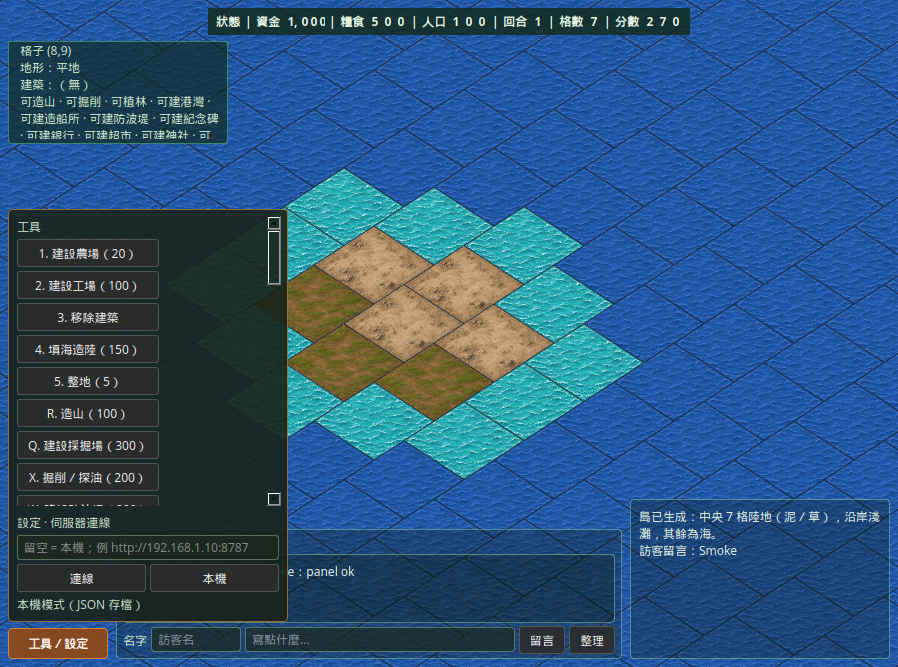
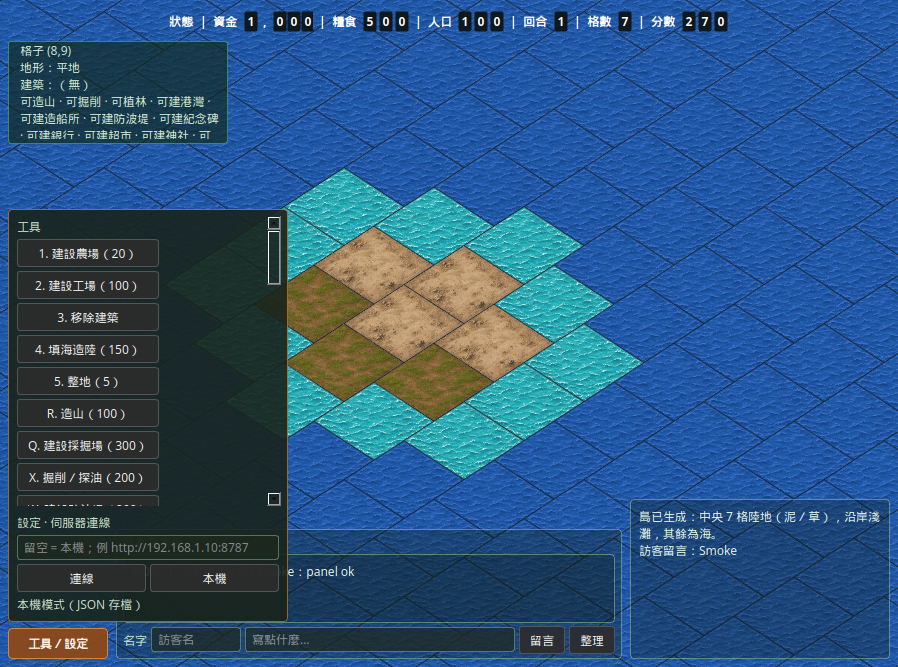
箱庭島：狀態列去綠框；數字改獨立深色格
Strip the green status background entirely (frameless over map). Each digit paints its own dark rounded cell with bold white; commas stay outside cells; turn-based open roll unchanged.

Changed region(s): [[0.1871, 0.0, 0.8107, 0.06]]

diff --git a/hakoniwa/odometer.py b/hakoniwa/odometer.py
@@ -1,9 +1,10 @@
 """Odometer-style digit roll widgets for the hakoniwa status HUD.
 
-Digits sit in compact cells (no border/frame) and scroll upward with a short
-OutBack bounce when the value changes. Comma grouping matches the
-「12,480」 vibe. Persistence helpers remember the last-seen turn snapshot so
-login/open only rolls when the turn advances.
+Each digit sits in its own small dark cell (「累計 12,527 人」 vibe); labels
+and commas stay outside cells. The status strip itself is frameless over the
+map. Digits scroll upward with a short OutBack bounce. Persistence helpers
+remember the last-seen turn snapshot so login/open only rolls when the turn
+advances.
 """
 
 from __future__ import annotations
@@ -15,18 +16,21 @@ from typing import Any, Dict, Mapping, Optional, Union
 from PySide6.QtCore import (
     QEasingCurve,
     QPropertyAnimation,
+    QRectF,
     Qt,
     Property,
 )
-from PySide6.QtGui import QColor, QFont, QFontMetrics, QPainter
+from PySide6.QtGui import QColor, QFont, QFontMetrics, QPainter, QPainterPath
 from PySide6.QtWidgets import QHBoxLayout, QLabel, QSizePolicy, QWidget
 
 PathLike = Union[str, Path]
 
-# Reuse hakoniwaHudStatus palette (dialog.HAKONIWA_HUD_STYLE).
-STATUS_FG = QColor("#e4f5e4")
-STATUS_BG = QColor(18, 42, 26, 210)
+# Labels / commas: bold white over the map. Digit cells: small dark tiles.
+STATUS_FG = QColor("#ffffff")
+DIGIT_FG = QColor("#ffffff")
+DIGIT_CELL_BG = QColor(12, 18, 16, 230)  # dark cell fill (not a bar frame)
 DIGIT_MS = 520
+DIGIT_RADIUS = 2.0
 
 
 def format_grouped(n: int) -> str:
@@ -35,7 +39,7 @@ def format_grouped(n: int) -> str:
 
 
 class DigitReel(QWidget):
-    """One digit cell: vertical reel 0–9 that scrolls upward with overshoot."""
+    """One digit in a small dark cell; reel scrolls upward with overshoot."""
 
     def __init__(self, parent: Optional[QWidget] = None):
         super().__init__(parent)
@@ -43,13 +47,15 @@ class DigitReel(QWidget):
         self._offset = 0.0  # fractional reel position (digit units)
         self._anim: Optional[QPropertyAnimation] = None
         self.setAttribute(Qt.WidgetAttribute.WA_OpaquePaintEvent, False)
+        self.setAttribute(Qt.WidgetAttribute.WA_TranslucentBackground, True)
         self.setSizePolicy(QSizePolicy.Policy.Fixed, QSizePolicy.Policy.Fixed)
         font = QFont(self.font())
         font.setBold(True)
         self.setFont(font)
         fm = QFontMetrics(self.font())
-        self._cell_w = max(fm.horizontalAdvance("0") + 4, 12)
-        self._cell_h = max(fm.height() + 2, 16)
+        # Compact cell like counter tiles — tight around the glyph.
+        self._cell_w = max(fm.horizontalAdvance("0") + 6, 14)
+        self._cell_h = max(fm.height() + 4, 18)
         self.setFixedSize(self._cell_w, self._cell_h)
 
     def get_offset(self) -> float:
@@ -103,14 +109,18 @@ class DigitReel(QWidget):
     def paintEvent(self, event) -> None:  # noqa: N802
         del event
         p = QPainter(self)
+        p.setRenderHint(QPainter.RenderHint.Antialiasing, True)
         p.setRenderHint(QPainter.RenderHint.TextAntialiasing, True)
+        h = float(self.height())
+        w = float(self.width())
+        # Dark cell tile (individual digit box — not a bar frame).
+        path = QPainterPath()
+        path.addRoundedRect(QRectF(0.5, 0.5, w - 1.0, h - 1.0), DIGIT_RADIUS, DIGIT_RADIUS)
+        p.fillPath(path, DIGIT_CELL_BG)
+        p.setClipPath(path)
         p.setFont(self.font())
-        p.setPen(STATUS_FG)
-        h = self.height()
-        w = self.width()
-        # Continuous reel: draw digits around current fractional offset.
+        p.setPen(DIGIT_FG)
         base = self._offset
-        # Normalize into a window covering ±1 digit for overshoot.
         for k in range(int(base) - 1, int(base) + 3):
             d = k % 10
             y = (k - base) * h
@@ -119,8 +129,8 @@ class DigitReel(QWidget):
             p.drawText(
                 0,
                 int(round(y)),
-                w,
-                h,
+                int(w),
+                int(h),
                 int(Qt.AlignmentFlag.AlignCenter),
                 str(d),
             )
@@ -128,15 +138,17 @@ class DigitReel(QWidget):
 
 
 class OdometerNumber(QWidget):
-    """Comma-grouped digit reels for a non-negative integer."""
+    """Comma-grouped digit reels; commas sit *outside* digit cells."""
 
     def __init__(self, parent: Optional[QWidget] = None, *, min_digits: int = 1):
         super().__init__(parent)
         self._min_digits = max(1, int(min_digits))
         self._value = 0
+        self.setAttribute(Qt.WidgetAttribute.WA_TranslucentBackground, True)
         self._layout = QHBoxLayout(self)
         self._layout.setContentsMargins(0, 0, 0, 0)
-        self._layout.setSpacing(1)
+        # Tight gap between digit cells; commas get their own spacing.
+        self._layout.setSpacing(2)
         self._reels: list[DigitReel] = []
         self._seps: list[QLabel] = []
         self.setSizePolicy(QSizePolicy.Policy.Fixed, QSizePolicy.Policy.Fixed)
@@ -174,13 +186,15 @@ class OdometerNumber(QWidget):
         # Build from grouped text so commas land between digit cells.
         for ch in text:
             if ch == ",":
+                # Comma lives outside digit cells (no dark tile).
                 sep = QLabel(",", self)
                 sep.setObjectName("hakoniwaOdoSep")
                 font = QFont(sep.font())
                 font.setBold(True)
                 sep.setFont(font)
                 sep.setStyleSheet(
-                    f"color: {STATUS_FG.name()}; background: transparent; border: none;"
+                    "color: #ffffff; background: transparent; border: none;"
+                    "padding: 0 1px; font-weight: bold;"
                 )
                 self._layout.addWidget(sep)
                 self._seps.append(sep)
@@ -265,7 +279,7 @@ def snapshot_from_state(state: Any) -> Dict[str, int]:
 
 
 class HakoniwaStatusBar(QWidget):
-    """Top status strip: 狀態 | 資金[odo] | … | 分數[odo] (no frame; bold).
+    """Frameless top strip: 狀態 | 資金[cells] | … (labels outside; bold white).
 
     ``text()`` returns a flat string for smoke tests / layout width.
     ``setText`` switches to plain tourism/legacy mode.
@@ -280,10 +294,17 @@ class HakoniwaStatusBar(QWidget):
         ("score", "分數"),
     )
 
+    _LABEL_STYLE = (
+        "color: #ffffff; background: transparent; border: none; font-weight: bold;"
+    )
+
     def __init__(self, parent: Optional[QWidget] = None):
         super().__init__(parent)
         self.setObjectName("hakoniwaHudStatus")
+        # Fully transparent strip — only digit cells paint a dark fill.
+        self.setAttribute(Qt.WidgetAttribute.WA_TranslucentBackground, True)
         self.setAttribute(Qt.WidgetAttribute.WA_StyledBackground, True)
+        self.setAutoFillBackground(False)
         font = QFont(self.font())
         font.setBold(True)
         self.setFont(font)
@@ -302,8 +323,8 @@ class HakoniwaStatusBar(QWidget):
         }
 
         self._row = QHBoxLayout(self)
-        self._row.setContentsMargins(8, 2, 8, 2)
-        self._row.setSpacing(4)
+        self._row.setContentsMargins(4, 2, 4, 2)
+        self._row.setSpacing(6)
 
         self._plain_label = QLabel(self)
         self._plain_label.setObjectName("hakoniwaHudStatusPlain")
@@ -314,21 +335,19 @@ class HakoniwaStatusBar(QWidget):
         self._plain_label.hide()
 
         self._structured = QWidget(self)
+        self._structured.setAttribute(Qt.WidgetAttribute.WA_TranslucentBackground, True)
+        self._structured.setAutoFillBackground(False)
         self._struct_lay = QHBoxLayout(self._structured)
         self._struct_lay.setContentsMargins(0, 0, 0, 0)
-        self._struct_lay.setSpacing(4)
+        self._struct_lay.setSpacing(6)
 
         self._status_label = self._make_caption("狀態")
         self._struct_lay.addWidget(self._status_label)
         self._odometers: Dict[str, OdometerNumber] = {}
         self._bank_label = QLabel("", self._structured)
-        self._bank_label.setStyleSheet(
-            f"color: {STATUS_FG.name()}; background: transparent; border: none; font-weight: bold;"
-        )
+        self._bank_label.setStyleSheet(self._LABEL_STYLE)
         self._suffix_label = QLabel("", self._structured)
-        self._suffix_label.setStyleSheet(
-            f"color: {STATUS_FG.name()}; background: transparent; border: none; font-weight: bold;"
-        )
+        self._suffix_label.setStyleSheet(self._LABEL_STYLE)
 
         for key, title in self.FIELD_ORDER:
             # Always "| label odo" after 狀態 (and between fields).
@@ -356,16 +375,12 @@ class HakoniwaStatusBar(QWidget):
 
     def _make_caption(self, text: str) -> QLabel:
         lab = QLabel(text, self._structured)
-        lab.setStyleSheet(
-            f"color: {STATUS_FG.name()}; background: transparent; border: none; font-weight: bold;"
-        )
+        lab.setStyleSheet(self._LABEL_STYLE)
         return lab
 
     def _make_sep(self) -> QLabel:
         lab = QLabel("|", self._structured)
-        lab.setStyleSheet(
-            f"color: {STATUS_FG.name()}; background: transparent; border: none; font-weight: bold;"
-        )
+        lab.setStyleSheet(self._LABEL_STYLE)
         return lab
 
     def setAlignment(self, alignment) -> None:  # noqa: N802

diff --git a/hakoniwa/smoke_test.py b/hakoniwa/smoke_test.py
@@ -2578,12 +2578,15 @@ def test_dialog_import_offscreen():
     i_turn, i_cells = st.index("回合"), st.index("格數")
     i_score = st.index("分數")
     assert i_status < i_funds < i_food < i_pop < i_turn < i_cells < i_score, st
-    # Status HUD is a single horizontal line (no wrap / multi-line); no frame.
+    # Status HUD is a single horizontal line (no wrap); frameless over map.
     assert dlg.stats.wordWrap() is False
     assert "\n" not in st
-    assert "border: none" in dlg.hud.styleSheet() or "border:none" in dlg.hud.styleSheet().replace(
-        " ", ""
-    )
+    sheet = dlg.hud.styleSheet()
+    assert "border: none" in sheet or "border:none" in sheet.replace(" ", "")
+    # Green status box removed — strip background must be transparent.
+    assert "QWidget#hakoniwaHudStatus" in sheet
+    status_block = sheet.split("QWidget#hakoniwaHudStatus")[1].split("}")[0]
+    assert "transparent" in status_block, status_block
     dlg.show()
     dlg.resize(960, 780)
     dlg._refresh_ui()

diff --git a/hakoniwa/dialog.py b/hakoniwa/dialog.py
@@ -105,19 +105,21 @@ _OVERLAY_BG = "rgba(12, 28, 18, 77)"
 _OVERLAY_BORDER = "rgba(150, 200, 150, 130)"
 
 # In-map HUD styles (status / tile / log / guestbook / tools).
-# Status bar: same palette, no frame/border (user-locked), bold text.
+# Status strip: fully frameless over the map (no green box); digit cells
+# carry their own dark fill in odometer.DigitReel.
 HAKONIWA_HUD_STYLE = f"""
 QWidget#hakoniwaHudStatus {{
-    background-color: rgba(18, 42, 26, 210);
-    color: #e4f5e4;
+    background: transparent;
+    background-color: transparent;
+    color: #ffffff;
     border: none;
-    padding: 2px 8px;
+    padding: 2px 4px;
     font-weight: bold;
-    /* Single-line odometer status strip — no wrap / no frame. */
+    /* Frameless odometer strip floating on the map. */
 }}
 QLabel#hakoniwaHudStatusPlain {{
     background: transparent;
-    color: #e4f5e4;
+    color: #ffffff;
     border: none;
     font-weight: bold;
 }}
